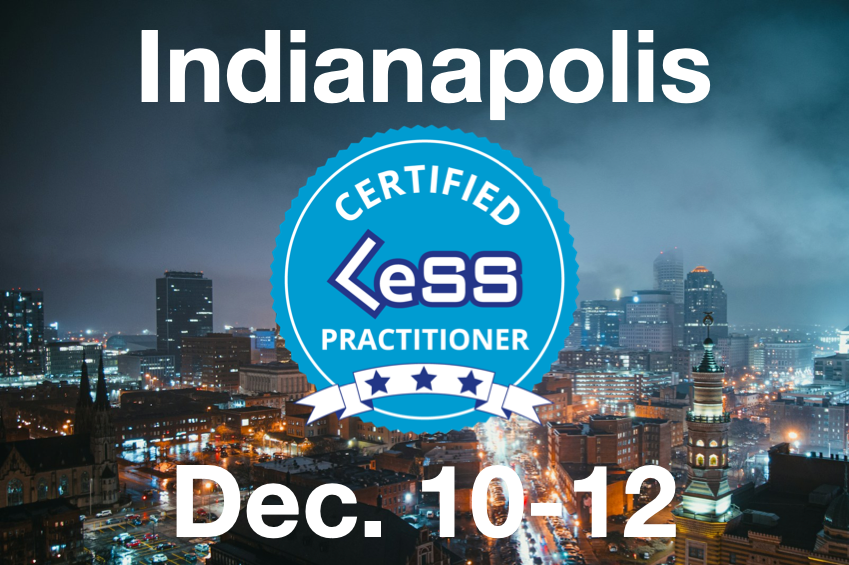
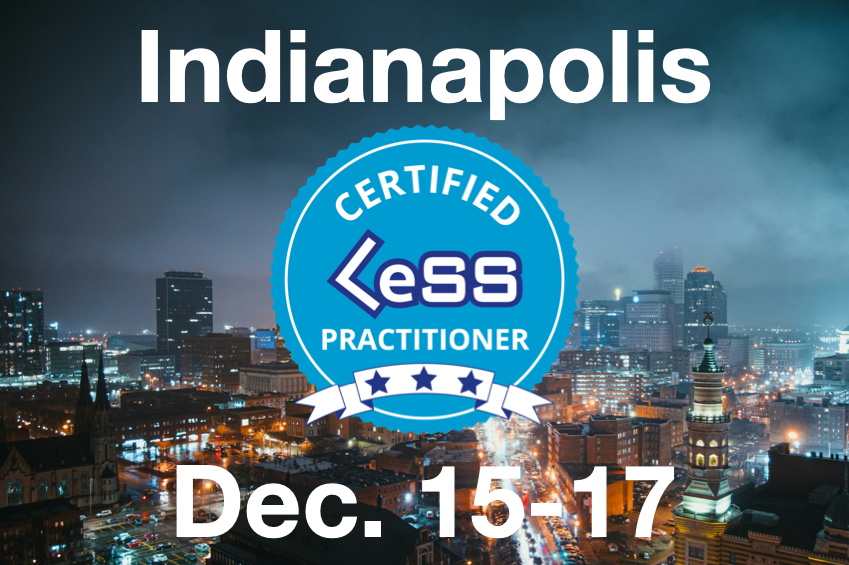
switched dates to dec 15 to 17, 2025

Changed region(s): [[0.735, 0.8124, 0.7962, 0.9628], [0.5512, 0.8124, 0.6125, 0.9327]]

diff --git a/clp/indianapolis_fall_2025.md b/clp/indianapolis_fall_2025.md
@@ -5,8 +5,8 @@ ogimage: /assets/images/clp/IndianapolisCLPWebsitePageHeaderDec10to12_OgImage.pn
 author: James
 layout: book
 trainingevent:
-  startDate: "2025-12-10T08:30-05:00"
-  endDate: "2025-12-12T18:00-05:00"
+  startDate: "2025-12-15T08:30-05:00"
+  endDate: "2025-12-17T18:00-05:00"
   location:
     name: "TBD"
     address:
@@ -31,7 +31,7 @@ trainingevent:
     url: "https://agilecarpentry.com"
 ---
 
-<a class="wx-button" href="https://agilecarpentry.ticketspice.com/indianapolis-certified-less-practitioner-fall-2025" style="background:rgba(36,36,36,1);color:white;padding:10px 20px;text-decoration:none;font-weight:bold;" target="_blank">December 10-12: Get Tickets</a>
+<a class="wx-button" href="https://agilecarpentry.ticketspice.com/indianapolis-certified-less-practitioner-fall-2025" style="background:rgba(36,36,36,1);color:white;padding:10px 20px;text-decoration:none;font-weight:bold;" target="_blank">December 15-17: Get Tickets</a>
 
 # Co-Trained By James Carpenter and Gene Gendel
 
@@ -42,16 +42,6 @@ The larger the class, the greater the odds Gene will be available to co-train wi
 # Discounted Pricing Available
 
 A variety of discount options are available for larger companies sending larger groups of students. Please contact me (James) via email at [james@agilecarpentry.com](mailto:james@agilecarpentry.com){:target="_blank"} or cell phone text message at +1 832-677-7247 to discuss details.
-
-
-# Note On Class Scheduling
-
-In an effort to avoid a marketing conflict with some other efforts, Gene and I are mostly limiting any announcements concerning this course to those in the Indianapolis area, and perhaps those within a few hours drive.
-
-That said, the course is open to anyone regardless of geography. So if you have a co-worker or friend from another city who would like to join you, they are very welcome to do so.
-
-Please feel free to let others know about this class, including social media announcements.
-
 
 # Contact Information
 
@@ -83,7 +73,7 @@ Evening dinners are not included in the cost of the course. It is possible parti
 
 # Tickets
 
-<a class="wx-button" href="https://agilecarpentry.ticketspice.com/indianapolis-certified-less-practitioner-fall-2025" style="background:rgba(36,36,36,1);color:white;padding:10px 20px;text-decoration:none;font-weight:bold;" target="_blank">December 10-12: Get Tickets</a>
+<a class="wx-button" href="https://agilecarpentry.ticketspice.com/indianapolis-certified-less-practitioner-fall-2025" style="background:rgba(36,36,36,1);color:white;padding:10px 20px;text-decoration:none;font-weight:bold;" target="_blank">December 15-17: Get Tickets</a>
 
 
 
